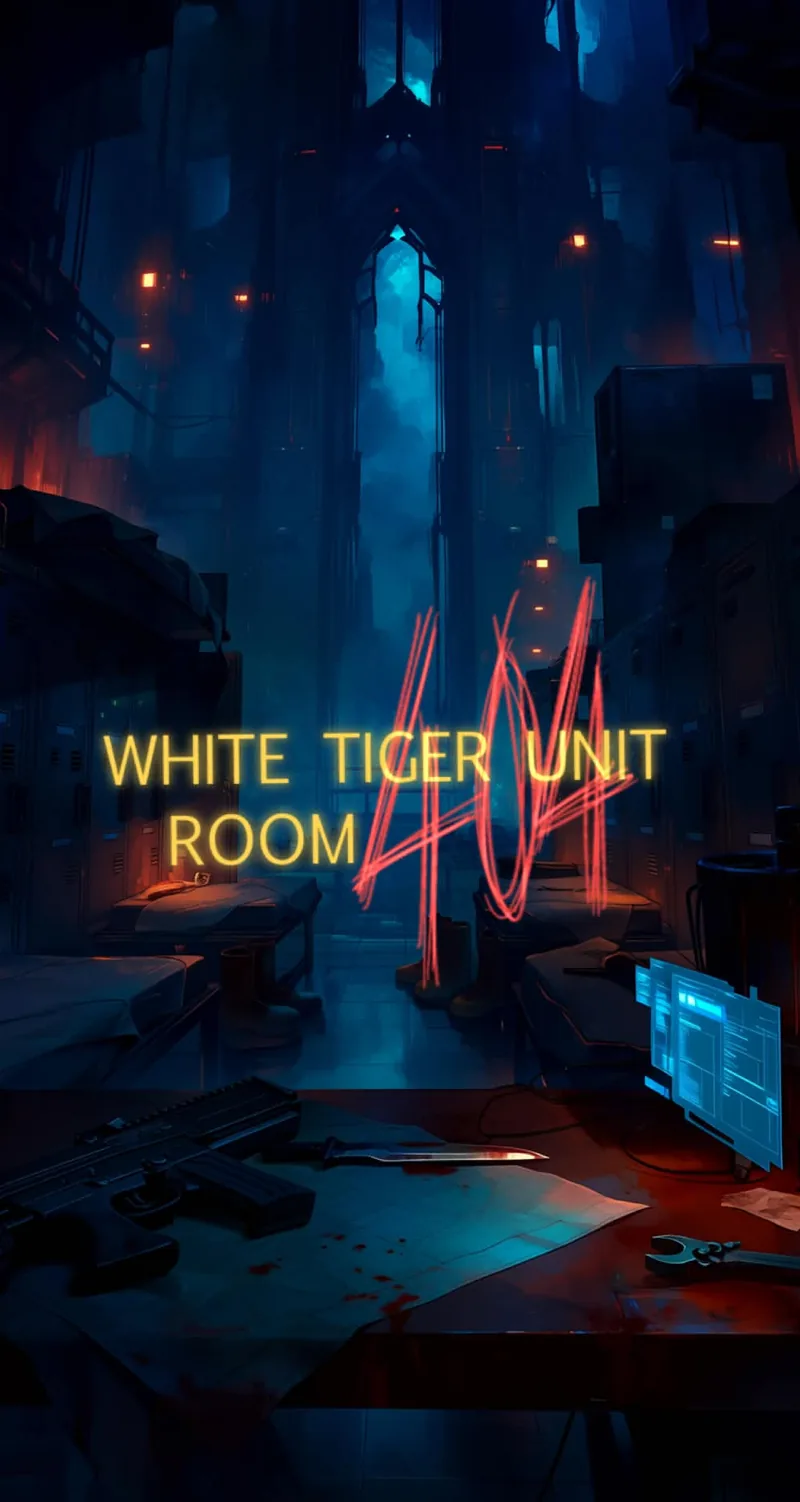
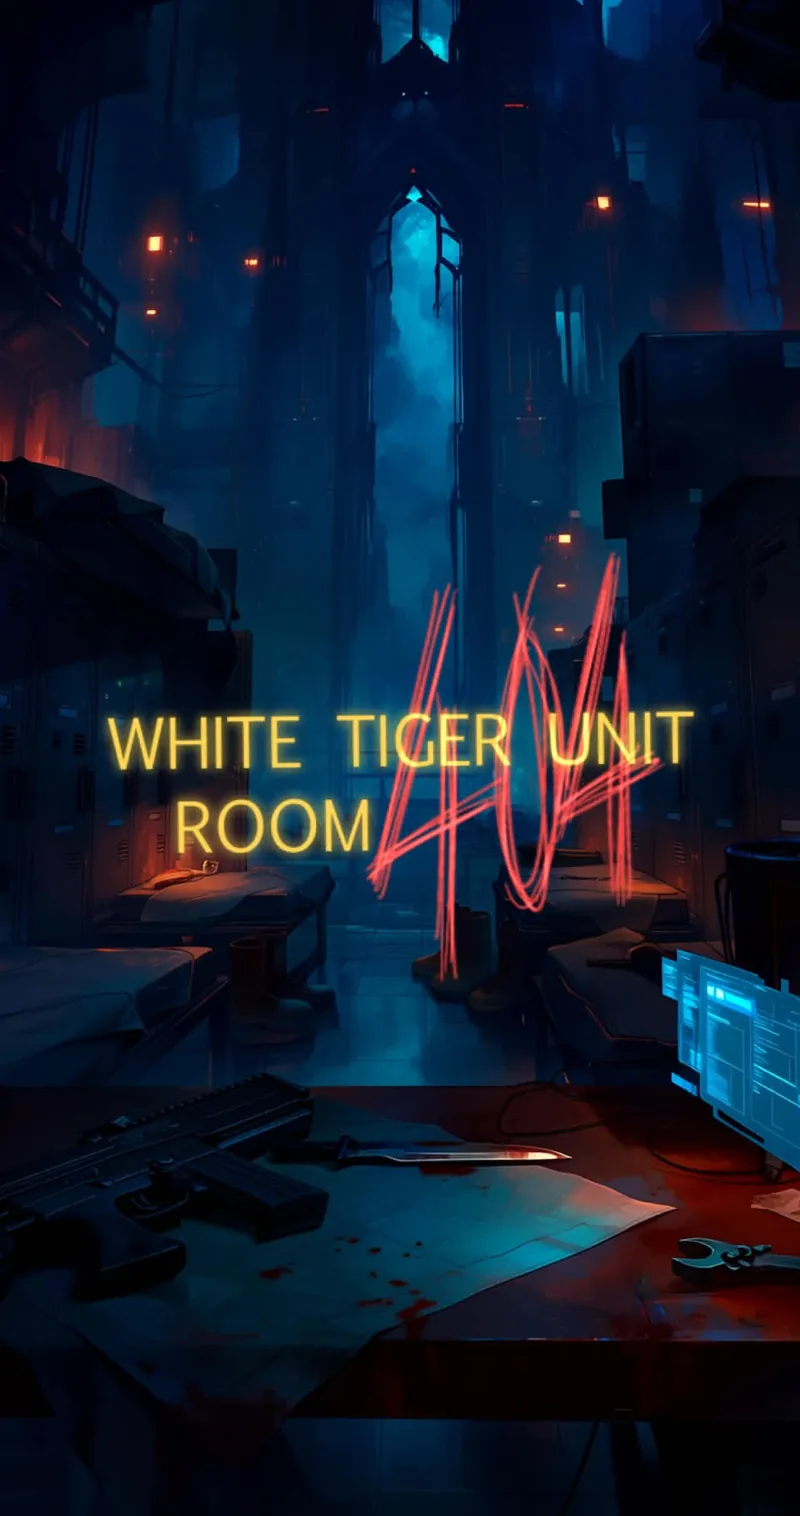
《白虎部隊：404》封面：以霓虹字為中心重新裁切並置中

diff --git a/script.js b/script.js
@@ -401,7 +401,7 @@ const WORKS = [
     hook: "指揮家與影武者，只在你面前放下鋒芒。",
     world: "前任會長瓦倫提諾（指揮家）與現任會長 Roi（影武者）領導的組織。左、右副手伊利亞（斷尾犬）與米卡耶爾（夜鴞）分別負責外部危機處理與情報滲透。" },
   { id: "yeshou", title: "野獸集結", cover: A+"wildmansion.jpg", tags: "", hook: "", world: "" },
-  { id: "baihu", title: "白虎部隊：404", cover: "assets/works/whitetiger404.webp", coverPos: "center 44%", tags: "", hook: "", world: "" },
+  { id: "baihu", title: "白虎部隊：404", cover: "assets/works/whitetiger404.webp", coverPos: "center", tags: "", hook: "", world: "" },
   { id: "shenhai", title: "深海戰艦", cover: A+"leviathan.jpg", tags: "", hook: "", world: "" },
   { id: "evilspouse", title: "成為惡人的合法配偶", cover: "assets/covers/evilspouse.jpg", tags: "現代・黑道・犯罪",
     hook: "黑道、斯文敗類與重案組的狂犬。",
